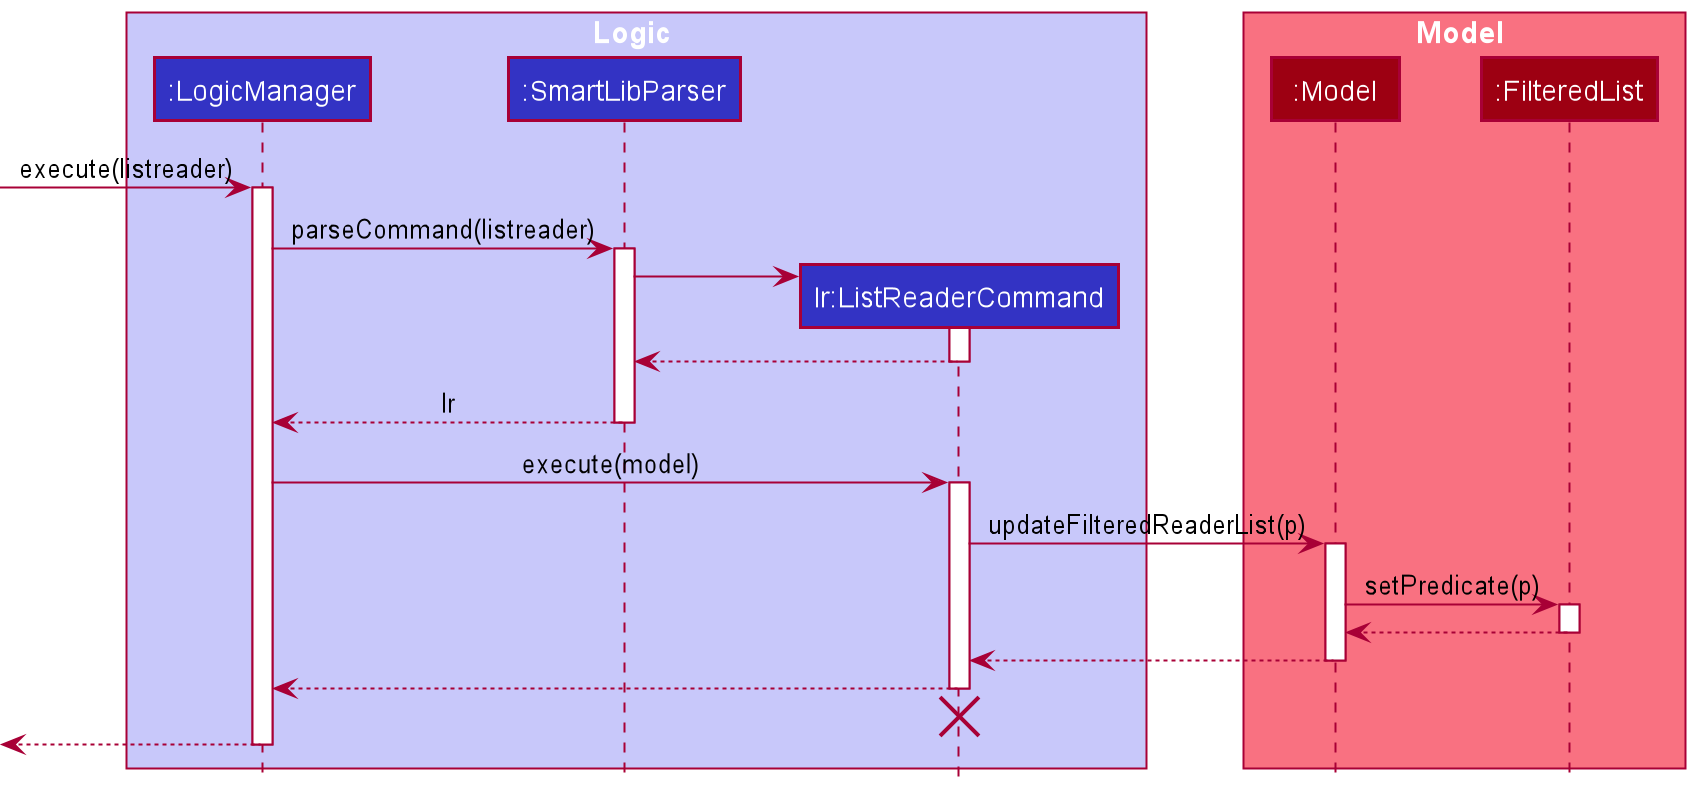
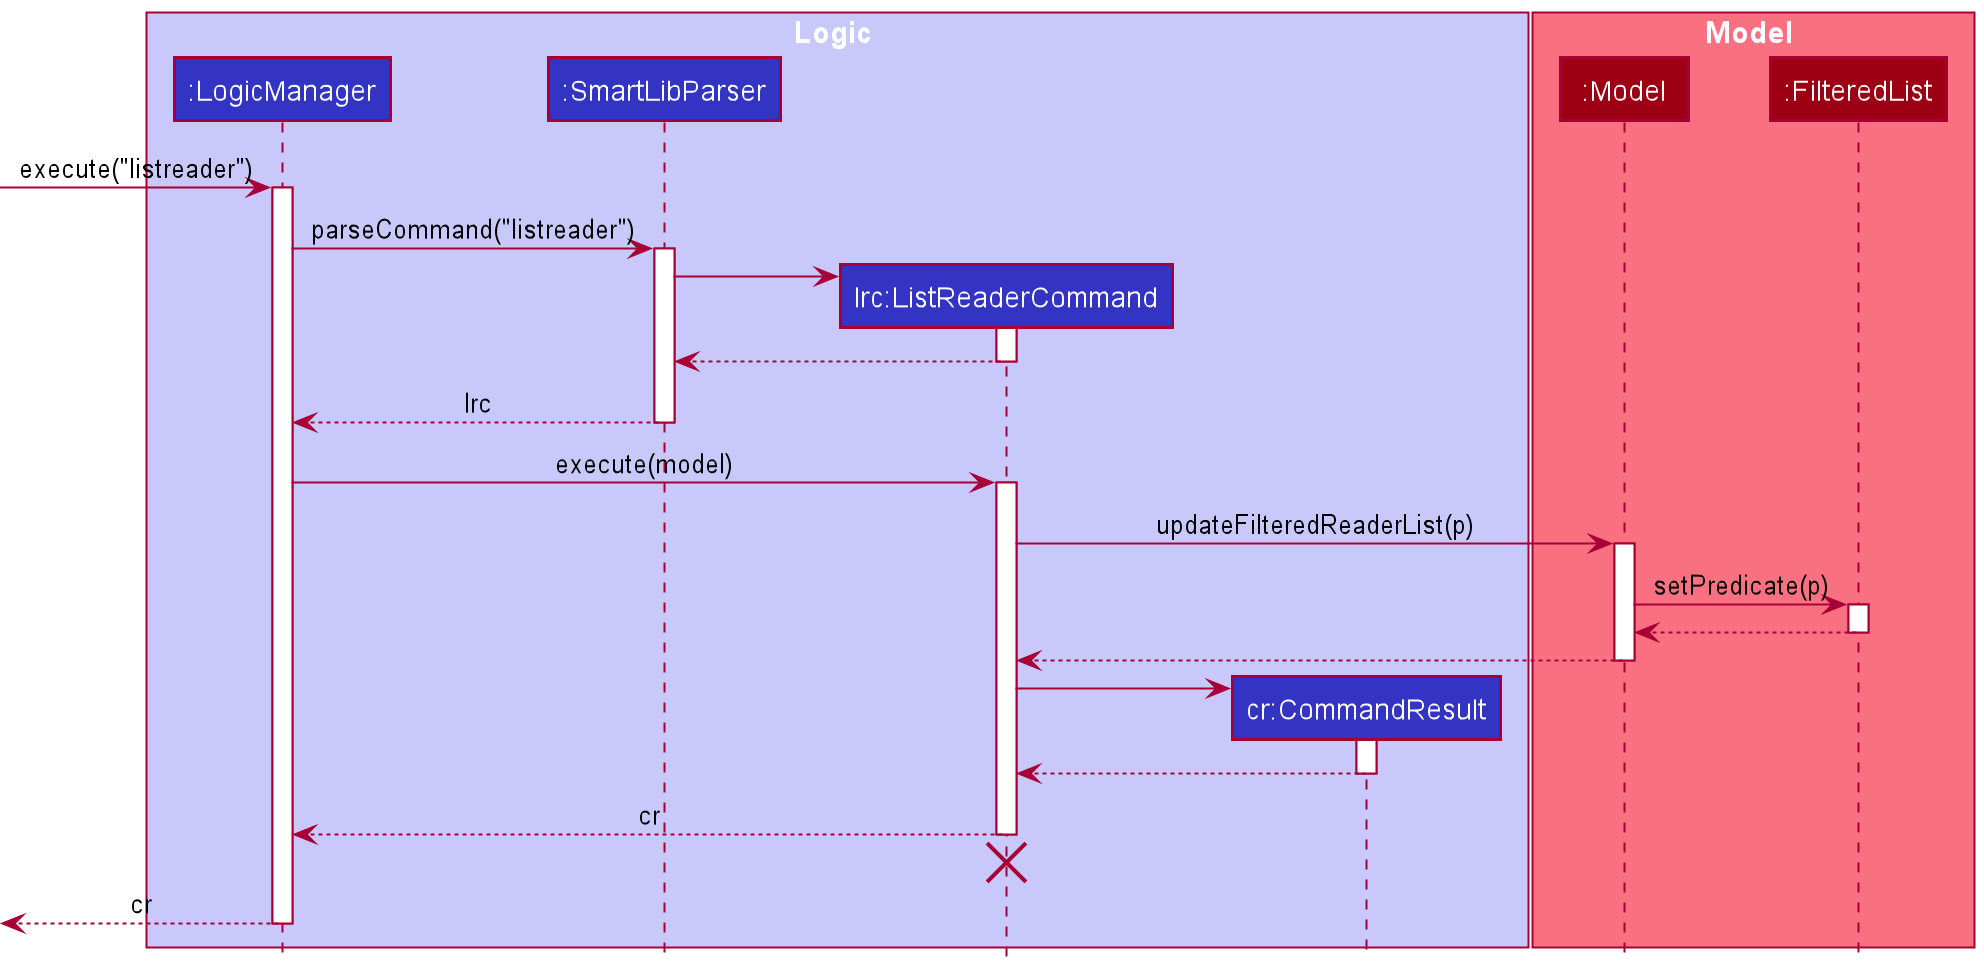
Add find readers to DG

Changed region(s): [[0.0, 0.0, 1.0, 1.0]]

diff --git a/docs/DeveloperGuide.md b/docs/DeveloperGuide.md
@@ -158,39 +158,46 @@ This section describes some noteworthy details on how certain features are imple
 ### List all readers
 
 Listing all readers in a class requires user input from the CLI.
-The main parser (SmartLibParser) will then create a ListReaderCommand, which will trigger Model to update the GUI with a full list of the readers.
+The `SmartLibParser` will then create a `ListReaderCommand`, which will trigger Model to update the GUI with a full list of the readers.
 
 **Notes:**
 * Any arguments that the user inputs after the command `listreader` will not be examined by the application.
 * If the current view of the GUI is already the full list of readers, `listreader` will not refresh or update the GUI.
 
-The following sequence diagram shows how the <name> operation works:
+Given below is an example usage scenario of how the `listreader` mechanism behaves at each step:
+* Step 1: The user launches the SmartLib application with all of his/her readers already added to the reader list. Suppose that the user has entered a command which modifies the list of readers shown on the GUI (e.g. `findreader Tom`), causing the list to only show a subset of readers.
+* Step 2: The user inputs `listreader` to SmartLib, which calls upon `LogicManager#execute()`.
+* Step 3: `SmartLibParser` checks the user input and returns a `ListReaderCommand` to the `LogicManager` if the input is valid.
+* Step 4: `LogicManager` will then call `ListReaderCommand#execute()`, which in turn calls `Model#updateFilteredReaderList()`.
+* Step 5: The reader list is updated and reflected on the GUI.
+
+The following sequence diagram shows how the `listreader` operation works:
 
 ![ListReaderSequenceDiagram](images/ListReaderSequenceDiagram.png)
 
-The following activity diagram summarizes what happens when a user executes the <name> command:
+The following activity diagram summarizes what happens when a user executes the `listreader` command:
 
 ![ListReaderActivityDiagram](images/ListReaderActivityDiagram.png)
 
 ### Find all readers
 
-// TODO: description
+Finding all readers in a class requires a user input from the CLI.
+The respective parsers will parse the user input to check whether the input is valid, and obtain the name(s) of the reader(s) that the user wants to find.
 
-// TODO: notes
+Given below is an example usage scenario of how the `findreader` mechanism behaves at each step. In our example and the diagrams below, we assume that the user input is `findreader Tom`:
+* Step 1: The user launches the SmartLib application with all of his/her readers already added to the reader list.
+* Step 2: The user inputs `findreader Tom` to SmartLib, which calls upon `LogicManager#execute()`.
+* Step 3: `SmartLibParser` and `FindReaderCommandParser` will check the user input, and return a `FindReaderCommand` to the `LogicManager` if the input is valid.
+* Step 4: `LogicManager` will then call `FindReaderCommand#execute()`, which in turn calls `Model#updateFilteredReaderList()`.
+* Step 5: The reader list is updated and reflected on the GUI.
 
-The following sequence diagram shows how the <name> operation works:
+The following sequence diagram shows how the `findreader` operation works:
 
-The following activity diagram summarizes what happens when a user executes the <name> command:
+![ListReaderSequenceDiagram](images/FindReaderSequenceDiagram.png)
 
-### Tag readers
+The following activity diagram summarizes what happens when a user executes the `findreader` command:
 
-// TODO: description
-
-// TODO: notes
-
-The following sequence diagram shows how the <name> operation works:
-
-The following activity diagram summarizes what happens when a user executes the <name> command:
+![ListReaderActivityDiagram](images/FindReaderActivityDiagram.png)
 
 ### \[Proposed\] Undo/redo feature
 
